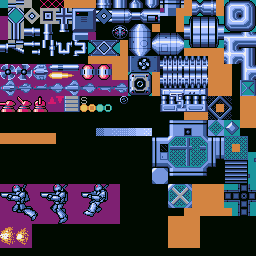
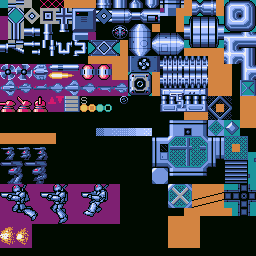
混ざってるけど、触手消えない不具合修正 その他

Changed region(s): [[0.0, 0.5625, 0.1875, 0.7188], [0.75, 0.75, 0.875, 0.8125]]

diff --git a/source/enemyBattery.py b/source/enemyBattery.py
@@ -43,3 +43,39 @@ class MovableBattery1(EnemyBase):
 
 	def draw(self):
 		pyxel.blt(self.x -11.5, self.y -11.5, 1, 128, 72, 24, 24, 3)
+
+# x, yは中心座標 t[2], t[3]はマップ座標
+class Ducker1(EnemyBase):
+	def __init__(self, t):
+		super(Ducker1, self).__init__()
+		pos = gcommon.mapPosToScreenPos(t[2], t[3])
+		self.x = pos[0] + 3.5
+		self.y = pos[1] + 3.5
+		self.firstShot = t[4]
+		self.moveTable = t[5]
+		self.left = -11
+		self.top = -11
+		self.right = 11
+		self.bottom = 11
+		self.layer = gcommon.C_LAYER_GRD
+		self.hp = 100
+		self.shotInterval = int(120 / gcommon.GameSession.enemy_shot_rate)
+		self.hitCheck = True
+		self.shotHitCheck = True
+		self.enemyShotCollision = False
+		self.mover = CountMover(self, self.moveTable, False)
+		self.ground = True
+		self.score = 500
+
+	def update(self):
+		self.mover.update()
+		if self.x <= -24 or self.x >= gcommon.SCREEN_MAX_X+24 or self.y <= -24 or self.y >= gcommon.SCREEN_MAX_Y+24:
+			self.remove()
+			gcommon.debugPrint("remove Battery")
+			return
+		if self.firstShot == self.cnt or (self.cnt > self.firstShot and (self.cnt - self.firstShot) % self.shotInterval == 0):
+			if gcommon.isShotMapPos(self.x, self.y):
+				enemy.enemy_shot(self.x, self.y, 3, 0)
+
+	def draw(self):
+		pyxel.blt(self.x -11.5, self.y -11.5, 1, 128, 72, 24, 24, 3)

diff --git a/source/story.py b/source/story.py
@@ -243,8 +243,32 @@ class Story:
 			[baseOffset + 1780, MovableBattery1, 105, 18, 60,
 				[[8*8, 0, 0.0, 1.0],[3*8, 0, 0.0, 0.0],[4*8, 0, 0.0, 1.0],[14*8, 0, 1.0, 0.0],[30*8, 0, 0.0, -1.0]]
 			],
+			[baseOffset + 2100, MovableBattery1, 132, 30, 60,
+				[[13*8, 0, -1.0, 0.0], [30*8, 0, 0.0, -1.0]]
+			],
+			[baseOffset + 2130, MovableBattery1, 100, 30, 60,
+				[[40*8, 0, 1.0, 0.0]]
+			],
 			[baseOffset + 2380, MovableBattery1, 102, 53, 60,
 				[[80*8, 0, 1.0, 0.0]]
+			],
+			[baseOffset + 2410, MovableBattery1, 102, 53, 60,
+				[[15*8, 0, 1.0, 0.0], [80*8, 0, 0.0, 1.0]]
+			],
+			[baseOffset + 2470, MovableBattery1, 102, 53, 60,
+				[[21*8, 0, 1.0, 0.0], [80*8, 0, 0.0, 1.0]]
+			],
+			[baseOffset + 2700, MovableBattery1, 102, 68, 60,
+				[[15*8, 0, 1.0, 0.0], [80*8, 0, 0.0, 1.0]]
+			],
+			[baseOffset + 2760, MovableBattery1, 134, 68, 60,
+				[[11*8, 0, -1.0, 0.0], [80*8, 0, 0.0, 1.0]]
+			],
+			[baseOffset + 2790, MovableBattery1, 102, 72, 60,
+				[[15*8, 0, 1.0, 0.0], [80*8, 0, 0.0, 1.0]]
+			],
+			[baseOffset + 2920, MovableBattery1, 134, 72, 60,
+				[[11*8, 0, -1.0, 0.0], [80*8, 0, 0.0, 1.0]]
 			],
 		]
 

diff --git a/source/myShip.py b/source/myShip.py
@@ -488,7 +488,7 @@ class MyShipB(MyShipBase):
 # return True: 消えた False:消えてない
 def checkShotMapCollision(obj, px, py):
 	no = gcommon.getMapData(px, py)
-	if gcommon.app.stage == 3:
+	if gcommon.app.stage == 4:
 		if no in (4, 5, 6):
 			obj.remove()
 			gcommon.setMapData(px, py, 0)
@@ -501,7 +501,7 @@ def checkShotMapCollision(obj, px, py):
 # return True: 壁 False:壁じゃない
 def checkShotMapCollisionPerfonate(px, py):
 	no = gcommon.getMapData(px, py)
-	if gcommon.app.stage == 3:
+	if gcommon.app.stage == 4:
 		if no in (4, 5, 6):
 			gcommon.setMapData(px, py, 0)
 			return False
@@ -510,7 +510,7 @@ def checkShotMapCollisionPerfonate(px, py):
 	return False
 
 def clearDeletableMapData(px, py, width):
-	if gcommon.app.stage != 3:
+	if gcommon.app.stage != 4:
 		return
 	for i in range(width):
 		no = gcommon.getMapData(px + i*8, py)

diff --git a/source/graslay.py b/source/graslay.py
@@ -731,13 +731,9 @@ class MainGame:
 			
 			for shot in gcommon.ObjMgr.shots:
 				if obj.checkShotCollision(shot):
-					shot.hit(obj, obj.doShotCollision(shot))
-					#shot.removeFlag = True
-					#shot.group.remove(shot)
-					#if len(shot.group.shots) == 0:
-					#	gcommon.ObjMgr.shotGroups.remove(shot.group)
-						
-					if obj.removeFlag:
+					broken = obj.doShotCollision(shot)
+					shot.hit(obj, broken)
+					if broken or obj.removeFlag:
 						break
 		# enemy shot and wallObj
 		for wallObj in gcommon.ObjMgr.objs:
@@ -818,7 +814,8 @@ class MainGame:
 		self.eventTable =[ \
 			[0, StartBGM, gcommon.BGM.STAGE5],
 			[0,StartMapDraw, MapDrawWarehouse],		\
-			[2192,SetMapScroll, 0.0, 0.5],
+			[2184,SetMapScroll, 0.0, 0.5],
+			[3384,SetMapScroll, 0.5, 0.0],
 		]
 
 	def initEvent3(self):

diff --git a/source/gcommon.py b/source/gcommon.py
@@ -164,7 +164,7 @@ B_SHOT_POWERS = (B_SHOT0_POWER, B_SHOT1_POWER, B_SHOT2_POWER)
 
 MISSILE0_POWER = 5
 MISSILE1_POWER = 5
-MISSILE2_POWER = 5
+MISSILE2_POWER = 2
 MISSILE_POWERS = (MISSILE0_POWER, MISSILE1_POWER, MISSILE1_POWER)
 
 B_MISSILE0_POWER = 5
@@ -1089,7 +1089,7 @@ def screenPosToMapPosX(x):
 # 壁当たり判定有無を返す
 def isMapFree(no):
 	global mapAttribute
-	return mapAttribute[no >> 5][no & 31] != "1"
+	return mapAttribute[no >> 5][no & 31] == "0"	#		 != "1"
 	#global mapFreeTable
 	#if no >= 512:
 	#	return True

diff --git a/source/enemy.py b/source/enemy.py
@@ -1535,7 +1535,7 @@ class Worm1(EnemyBase):
 
 	def broken(self):
 		gcommon.GameSession.addScore(self.score)
-		self.state = 100
+		self.setState(100)
 		self.cnt = 0
 		self.shotHitCheck = False
 
